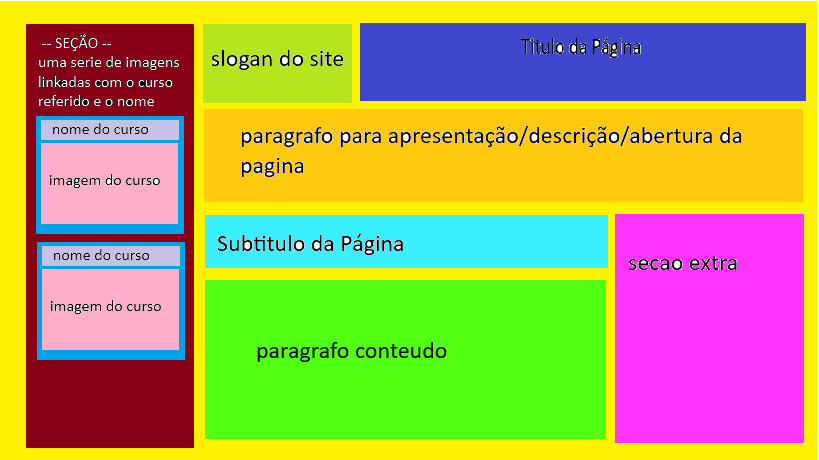
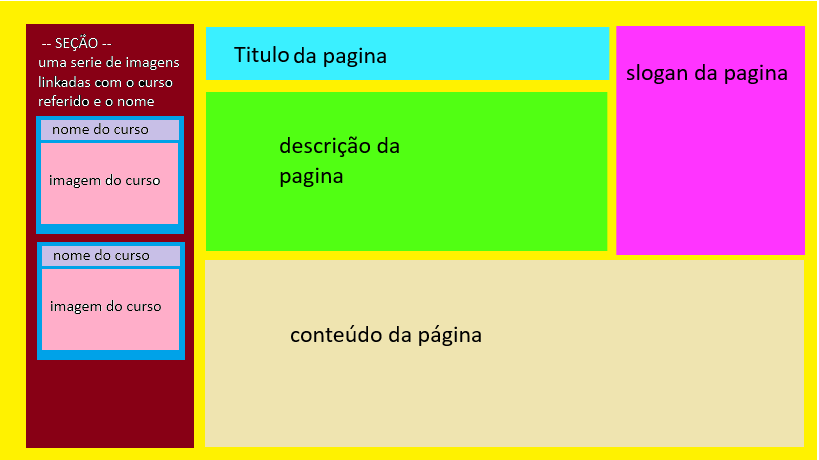
bloco principal

diff --git a/Curso tecnico -Desenvolvimento de Sistemas/Programação Web I/Projeto - livre v.1.2/doc/ideias_valter/index.html b/Curso tecnico -Desenvolvimento de Sistemas/Programação Web I/Projeto - livre v.1.2/doc/ideias_valter/index.html
@@ -45,12 +45,10 @@
     <!-- Container principal do conteúdo -->
     <div id="blocoPrincipalContainer">
         <main id="mainBlocoPrincipal">
-            <!-- Título do bloco principal -->
-            <h1 id="tituloBlocoPrincipal">Cursos Online</h1>
 
+            
             <!-- Seção do bloco principal -->
             <section id="secaoBlocoPrincipal">
-                essa seção dever ter 3 imagens cada uma com legenda
                 <div id="layoutSecaoBlocoPrincipal">
                     
                     <figure id="imgFigure1">
@@ -68,19 +66,27 @@
                         <figcaption id="imgLegenda3">Imagem javaScript</figcaption>
                         <img src="" alt="">
                     </figure>
-
+                    
                 </div>
             </section>
 
+
+            <!-- Título do bloco principal -->
+            <div id="tituloBlocoPrincipal">
+                <h1>Cursos Online</h1>
+                <p>Cursos Online</p>
+            </div>
+
             <!-- Imagem do bloco principal -->
-            <figure id="imgGrandeBlocoPrincipal">
+            <figure id="imgMediaBlocoPrincipal">
                 uma imagem grande que dê significado ao parágrafo e ao título
             </figure>
 
-            <!-- Parágrafo do bloco principal -->
-            <p id="paragrafoBlocoPrincipal">
-                escreva algo relevante para o site
-            </p>
+            <div id="conteudoPagina">
+                <h1>bla bla</h1>
+            </div>
+
+            
         </main>
     </div>
 

diff --git a/Curso tecnico -Desenvolvimento de Sistemas/Programação Web I/Projeto - livre v.1.2/doc/ideias_valter/css/posicao_bloco_principal.css b/Curso tecnico -Desenvolvimento de Sistemas/Programação Web I/Projeto - livre v.1.2/doc/ideias_valter/css/posicao_bloco_principal.css
@@ -1,3 +1,43 @@
 #blocoPrincipalContainer {
-    border: solid yellow;
+    display: grid;
+    grid-template-columns: 100%;
+    grid-template-rows: 100%;
+    box-sizing: border-box;
+    width: 100%;
 }
+
+#mainBlocoPrincipal {
+    display: grid;
+    grid-template-columns: 30% 40% 30%;
+    grid-template-rows: 30% 70%;
+}
+
+#mainBlocoPrincipal #secaoBlocoPrincipal {
+    grid-column-start: 1;
+    grid-column-end: 2;
+    grid-row-start: 1;
+    grid-row-end: 3;
+}
+
+#mainBlocoPrincipal #tituloBlocoPrincipal {
+    grid-column-start: 2;
+    grid-column-end: 3;
+    grid-row-start: 1;
+    grid-row-end: 2;
+}
+
+#mainBlocoPrincipal #imgMediaBlocoPrincipal {
+    grid-column-start: 3;
+    grid-column-end: 4;
+    grid-row-start: 1;
+    grid-row-end: 2;
+
+}
+
+#mainBlocoPrincipal #conteudoPagina {
+    grid-column-start: 2;
+    grid-column-end: 4;
+    grid-row-start: 2;
+    grid-row-end: 3;
+}
+
